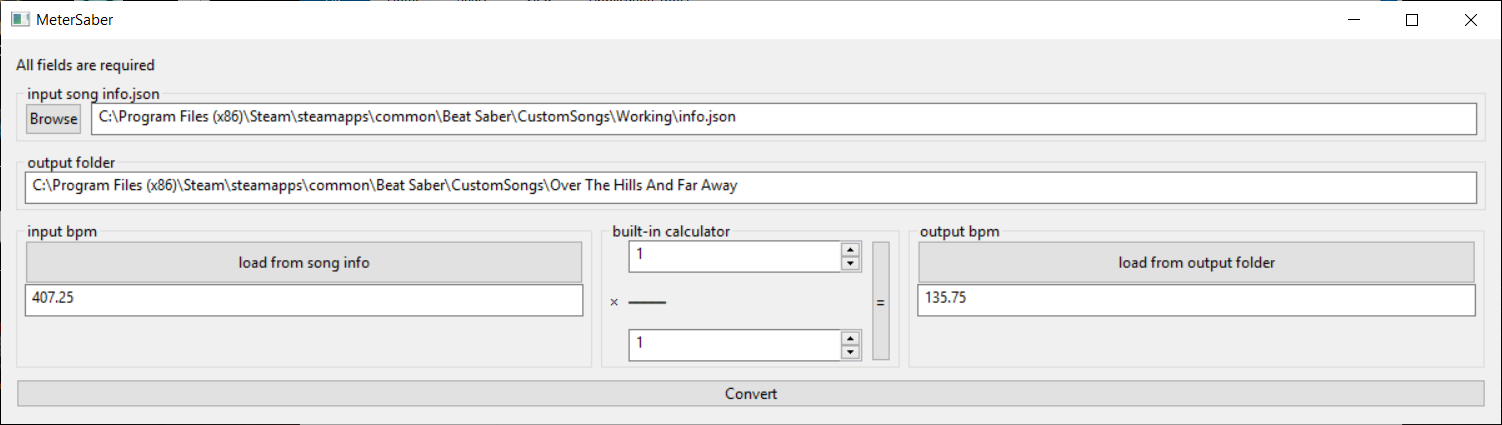
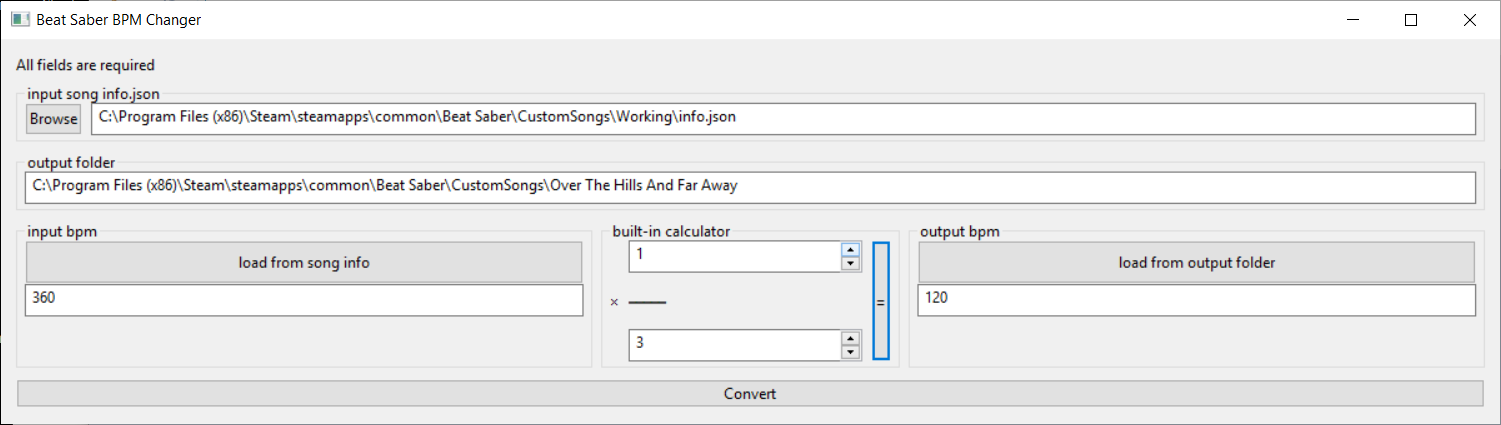
update screenshot

diff --git a/README.md b/README.md
@@ -4,11 +4,11 @@ A tool for changing the BPM of a beatsaber track without changing the relative p
 
 ![screenshot](./screenshot.png)
 
-In the screenshot above, I am creating a beatmap for "Over The Hills And Far Away" by Nightwish. This song has a BPM of 135.75 and is in 6/8. Since edit-saber does not yet support 6/8 songs, I had to edit the song in 407.25 BPM (3x the true BPM). This works, but caused the boxes to come at you much faster in game than they should. This program fixes that problem by converting the BPM back to the correct tempo and the adjusting all the boxes and walls back to their correct position within the song.
+In the screenshot above, I am creating a beatmap for a song in 6/8 with a BPM of 120. Since EditSaber doesn't support 6/8 songs yet, I had to edit the song in 360 BPM (3x the true BPM). This works, but causes the boxes to come at you much faster in game than they should. Bpm-saber fixes that problem by converting the BPM back to the correct tempo and the adjusting all the boxes and walls back to their correct position within the song.
 
 This tool only creates the `DIFFICULTY_LEVEL.json` files in the output folder. You will have to copy over the other files (info.json, song.ogg, cover.jpg, etc.) yourself.
 
-## description of sections
+## Description of sections
 
 ### input song info.json
 
